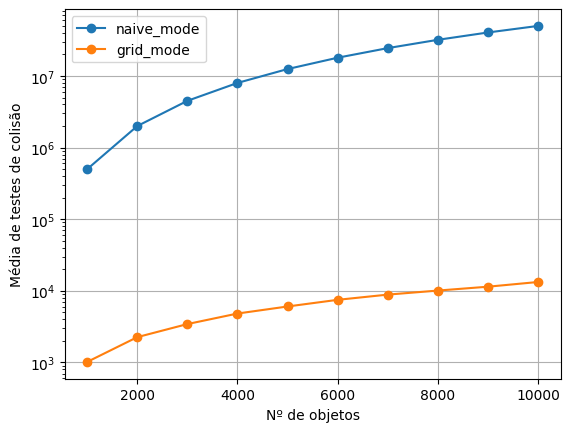
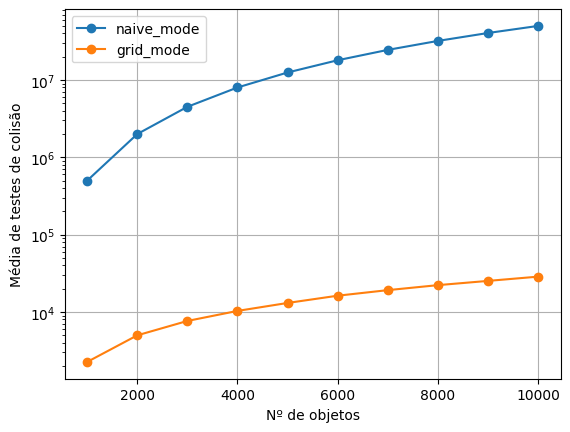
criação uniforme de objetos usando distribuição poisson

diff --git a/package/src/PoissonDiscSampling.ts b/package/src/PoissonDiscSampling.ts
@@ -1,0 +1,113 @@
+import { vec2 } from 'gl-matrix';
+
+function getRandomInRange(min: number, max: number): number {
+    return Math.random() * (max - min) + min;
+}
+
+export default class PoissonDiscSampling {
+    public cellSize: number;
+    protected grid: number[];
+    protected rows: number;
+    protected cols: number;
+
+    public constructor(
+        protected radius: number,
+        protected sampleRegionSize: vec2,
+        protected numSamplesBeforeRejection: number = 30,
+    ) {
+        this.cellSize = radius / Math.sqrt(2);
+        this.cols = Math.floor(sampleRegionSize[0] / this.cellSize);
+        this.rows = Math.floor(sampleRegionSize[1] / this.cellSize);
+
+        this.grid = [];
+        for (let i = 0; i < this.rows * this.cols; i++) {
+            this.grid.push(-1);
+        }
+    }
+
+    GeneratePoints(): vec2[] {
+        const points: vec2[] = [];
+        const active: vec2[] = [];
+
+        const startPos = vec2.scale(vec2.create(), this.sampleRegionSize, 0.5);
+        const startCell = vec2.fromValues(
+            Math.floor(startPos[0] / this.cellSize),
+            Math.floor(startPos[1] / this.cellSize),
+        );
+
+        active.push(startPos);
+        points.push(startPos);
+        this.grid[startCell[0] + startCell[1] * this.cols] = 0;
+
+        while (active.length > 0) {
+            const spawnIndex = Math.floor(Math.random() * active.length);
+            const spawnCenter = active[spawnIndex];
+            let accepted = false;
+
+            for (let i = 0; i < this.numSamplesBeforeRejection; i++) {
+                const angle = Math.random() * Math.PI * 2;
+                const dir = vec2.fromValues(Math.cos(angle), Math.sin(angle));
+                const mag = getRandomInRange(this.radius, this.radius * 2);
+                vec2.scale(dir, dir, mag);
+                const candidate = vec2.add(vec2.create(), spawnCenter, dir);
+
+                if (this.IsValid(candidate, points)) {
+                    points.push(candidate);
+                    active.push(candidate);
+                    const cellCoords = [
+                        Math.floor(candidate[0] / this.cellSize),
+                        Math.floor(candidate[1] / this.cellSize),
+                    ];
+                    this.grid[cellCoords[0] + cellCoords[1] * this.cols] =
+                        points.length - 1;
+                    accepted = true;
+                    break;
+                }
+            }
+
+            if (accepted === false) {
+                active.splice(spawnIndex, 1);
+            }
+        }
+
+        return points;
+    }
+
+    protected IsValid(candidate: vec2, points: vec2[]): boolean {
+        const cellX = Math.floor(candidate[0] / this.cellSize);
+        const cellY = Math.floor(candidate[1] / this.cellSize);
+
+        // fora da região → rejeita
+        if (
+            cellX < 0 ||
+            cellX >= this.cols ||
+            cellY < 0 ||
+            cellY >= this.rows
+        ) {
+            return false;
+        }
+
+        for (let i = -1; i <= 1; i++) {
+            for (let j = -1; j <= 1; j++) {
+                const nx = cellX + i;
+                const ny = cellY + j;
+
+                if (nx >= 0 && nx < this.cols && ny >= 0 && ny < this.rows) {
+                    const index = nx + ny * this.cols;
+                    const neighboorIdx = this.grid[index];
+
+                    if (neighboorIdx !== -1) {
+                        const neighboor = points[neighboorIdx];
+                        const dist = vec2.sqrDist(candidate, neighboor);
+
+                        if (dist < this.radius ** 2) {
+                            return false;
+                        }
+                    }
+                }
+            }
+        }
+
+        return true;
+    }
+}

diff --git a/homepage/src/views/examples/2d/PolygonChaos.vue b/homepage/src/views/examples/2d/PolygonChaos.vue
@@ -82,12 +82,13 @@ canvas {
 </template>
 
 <script setup lang="ts">
-import { vec3 } from 'gl-matrix';
+import { vec2, vec3 } from 'gl-matrix';
 import { onBeforeUnmount, ref } from 'vue';
 import p5 from 'p5';
 import { PolygonBody, type Body, TriangleBody, RectangleBody } from '@devdiegomatos/liso-engine/bodies';
 import { BroadPhaseMode, CollisionDetectionMode, Engine } from '@devdiegomatos/liso-engine';
 import { createEngineWorker, type MainToWorkerMessage, type WorkerToMainMessage, type ObjectBuilderArgs, ObjectType } from '@devdiegomatos/liso-engine/worker';
+import { PoissonDiscSampling } from '@devdiegomatos/liso-engine'
 import Scene from '@/scenes/Scene';
 import type IScene from '@/scenes/IScene';
 import SceneThreaded from '@/scenes/SceneThreaded';
@@ -103,7 +104,8 @@ const fps = ref(0);
 // Main thread mode variables
 const worldBoundings = 600;
 const gridArea = worldBoundings ** 2;
-let gridSize = Math.sqrt(gridArea / (totalEntities * 3));
+const gridSize = Math.sqrt(gridArea / (totalEntities * Math.PI));
+const poissonSamp = new PoissonDiscSampling(gridSize, vec2.fromValues(worldBoundings, worldBoundings))
 let scene: IScene | null = null;
 
 // Threaded mode variables
@@ -137,6 +139,8 @@ async function setup(p: p5) {
     if (sketchContainer.value === null) return;
 
     p.createCanvas(worldBoundings, worldBoundings).parent(sketchContainer.value);
+
+    const points = poissonSamp.GeneratePoints()
 
     if (threaded && worker) {
         scene = new SceneThreaded();
@@ -191,8 +195,9 @@ async function setup(p: p5) {
         );
 
         for (let i = 0; i < totalEntities; i++) {
-            const x = Math.random() * worldBoundings;
-            const y = Math.random() * worldBoundings;
+            const point = points[i];
+            const x = point[0];
+            const y = point[1];
 
             const type = Math.random();
             const isStatic = Math.random() < 0.2 ? true : false;
@@ -210,6 +215,27 @@ async function setup(p: p5) {
 
             scene.add(body);
         }
+
+        // for (let i = 0; i < totalEntities; i++) {
+        //     const x = Math.random() * worldBoundings;
+        //     const y = Math.random() * worldBoundings;
+
+        //     const type = Math.random();
+        //     const isStatic = Math.random() < 0.2 ? true : false;
+        //     const size = gridSize;
+        //     let body: Body;
+        //     if (type <= 0.25) {
+        //         body = new TriangleBody(x, y, size, isStatic);
+        //     } else if (type <= 0.5) {
+        //         body = new RectangleBody(x, y, size, size / 2, isStatic);
+        //     } else if (type <= 0.75) {
+        //         body = PolygonBody.PolygonBuilder(x, y, size, 5, isStatic);
+        //     } else {
+        //         body = PolygonBody.PolygonBuilder(x, y, size, 6, isStatic);
+        //     }
+
+        //     scene.add(body);
+        // }
     }
 }
 

diff --git a/package/tests/utils.js b/package/tests/utils.js
@@ -1,13 +1,22 @@
 import { existsSync, mkdirSync, writeFileSync } from 'fs';
+import { vec2 } from 'gl-matrix';
 
 import { PolygonBody, RectangleBody, TriangleBody } from '../dist/bodies.js';
+import { PoissonDiscSampling } from '../dist/index.js';
 export function generateBodies(count, worldDimensions, size) {
+    const poissonSamp = new PoissonDiscSampling(
+        size,
+        vec2.fromValues(worldDimensions, worldDimensions),
+    );
+    const points = poissonSamp.GeneratePoints();
+
     const bodies = [];
 
     for (let i = 0; i < count; i++) {
-        const x = Math.random() * worldDimensions;
-        const y = Math.random() * worldDimensions;
-
+        const point = points[i];
+        const x = point[0];
+        const y = point[1];
+        
         const type = Math.random();
         const isStatic = Math.random() < 0.2 ? true : false;
         let body;

diff --git a/package/tests/benchmark.js b/package/tests/benchmark.js
@@ -52,7 +52,8 @@ function buildTestName(test) {
 
 function intersectionTest(testCase, objects) {
     const gridArea = testCase.worldBoundings ** 2;
-    const cellSize = Math.sqrt(gridArea / (objects * 5));
+    // const cellSize = Math.sqrt(gridArea / (objects * 5));
+    const cellSize = Math.sqrt(gridArea / (objects * Math.PI));
 
     const engine = new Engine({
         worldBoundings: {
@@ -102,7 +103,7 @@ function intersectionTest(testCase, objects) {
 function benchmark(test, objects) {
     let name = buildTestName(test);
     console.log(`[benchmark] ${name} - ${objects} objetos`);
-    
+
     seedrandom('10000', { global: true });
     const start = performance.now();
 

diff --git a/package/src/index.ts b/package/src/index.ts
@@ -4,6 +4,7 @@ import Engine, {
     type Config,
     type Metrics,
 } from './Engine';
+import PoissonDiscSampling from "./PoissonDiscSampling"
 
 export {
     BroadPhaseMode,
@@ -11,4 +12,5 @@ export {
     type Config,
     Engine,
     type Metrics,
+    PoissonDiscSampling
 };
